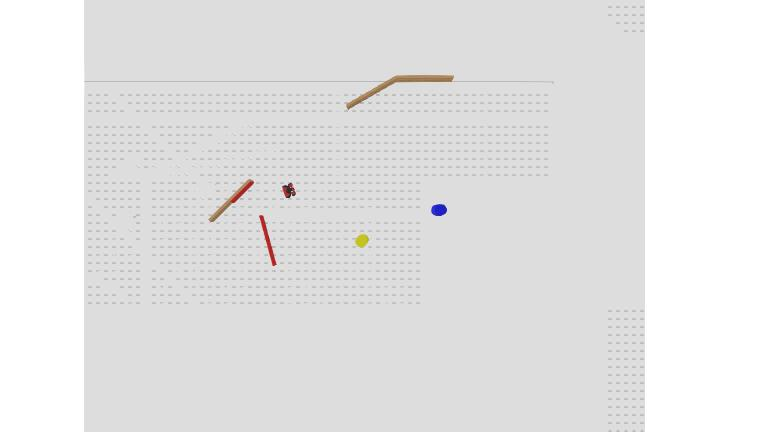
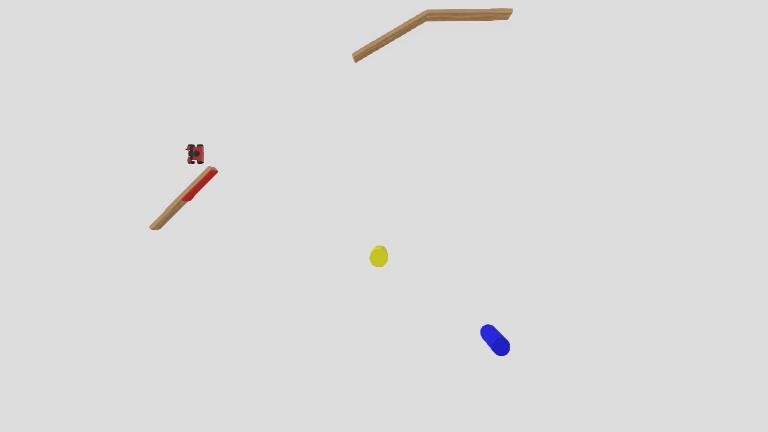
trying DWA

diff --git a/source/pplan/controllers/rosbot_python/rosbot_python.py b/source/pplan/controllers/rosbot_python/rosbot_python.py
@@ -152,9 +152,10 @@ def adapt_direction(distance_sensors_value):
             go_backward_milisecond(200)
         
         if last_turn == 0:
-            turn_left_milisecond(800)
+            rotate_in_place(120, 'left')
         else:
-            turn_right_milisecond(800)
+            rotate_in_place(120, 'right')
+
 
 def calculate_velocity(distance_sensors_value):
     coefficients = [[15.0, -9.0], [-15.0, 9.0]]
@@ -253,7 +254,7 @@ def simple_plan(map_target, tolerance=0.2):
 def get_local_target():
     current_pos = get_position()
     map_x, map_y = convert_to_map_coordinates(current_pos[0], current_pos[1])
-    r = 20
+    r = 10
 
     intersect_list = []
     for x_border in [-r, r]:
@@ -276,6 +277,95 @@ def get_local_target():
         print('--',intersect_list[np.argmin(dist)])
         return intersect_list[np.argmin(dist)]
     
+def dwa_planner(current_pos, current_heading_deg, map_target, distance_sensor_data, config):
+    max_v = config['max_v']
+    max_w = config['max_w']
+    v_samples = config['v_samples']
+    w_samples = config['w_samples']
+    predict_time = config['predict_time']
+    robot_radius = config['robot_radius']
+    dt = config['dt']
+
+    best_score = -float('inf')
+    best_v = 0.0
+    best_w = 0.0
+
+    for v in np.linspace(0, max_v, v_samples):
+        for w in np.linspace(-max_w, max_w, w_samples):
+            x, y = current_pos
+            #  theta = angle from robot to Norht (Oy)
+            theta = np.radians(current_heading_deg)
+
+            collision = False
+            for _ in np.arange(0, predict_time, dt):
+                x += v * np.cos(theta) * dt
+                y += v * np.sin(theta) * dt
+                theta += w * dt
+
+                if min(distance_sensor_data[0], distance_sensor_data[1]) < robot_radius:
+                    collision = True
+                    break
+
+            if collision:
+                continue
+
+            target_dx = map_target[0] - x
+            target_dy = map_target[1] - y
+            # heading_to_goal = angle from target to 
+            # heading_to_goal = np.arctan2(target_dy, target_dx) 
+            # heading_diff = abs(((heading_to_goal + np.pi - theta) % (2 * np.pi)) - np.pi)
+
+            heading_to_goal = (np.pi/2 - np.arctan2(target_dy, target_dx)) % (2*np.pi)
+            heading_diff = abs((heading_to_goal - theta))
+
+            score = -heading_diff + 0.5 * v
+
+            if score > best_score:
+                best_score = score
+                best_v = v
+                best_w = w
+
+    return best_v, best_w
+
+def velocity_to_wheel_speeds(v, w, wheel_base, wheel_radius):
+    v_left = v + (wheel_base / 2.0) * w
+    v_right = v - (wheel_base / 2.0) * w
+    left_speed = v_left / wheel_radius
+    right_speed = v_right / wheel_radius
+    return left_speed, right_speed
+
+def dwa_plan(map_target, tolerance=0.2):
+    current_pos = get_map_position()
+    distance = np.linalg.norm(map_target - current_pos)
+
+    if distance < tolerance:
+        print("[dwa_plan] Reached target!")
+        stop_motor()
+        return
+
+    heading = get_heading_deg()
+    sensor_data = get_distances()[:2]  # Use front-left and front-right sensors
+
+    config = {
+        'max_v': 0.3,
+        'max_w': 1.5,
+        'v_samples': 3,
+        'w_samples': 3,
+        'predict_time': 1.0,
+        'dt': 0.1,
+        'robot_radius': 0.3
+    }
+
+    v, w = dwa_planner(current_pos, heading, map_target, sensor_data, config)
+
+    left_speed, right_speed = velocity_to_wheel_speeds(v, w, AXLE_LENGTH, WHEEL_RADIUS)
+
+    front_left_motor.setVelocity(left_speed)
+    rear_left_motor.setVelocity(left_speed)
+    front_right_motor.setVelocity(right_speed)
+    rear_right_motor.setVelocity(right_speed)
+
+
 def main():
     try:
         pcount = 0  
@@ -301,9 +391,7 @@ def main():
             if cv2.waitKey(1) & 0xFF == ord('q'):
                     break
             
-            if pcount == 5:
-                simple_plan(target)
-                pcount = 0
+            dwa_plan(target)
 
             pcount += 1
             # time.sleep(0.5)

diff --git a/source/pplan/controllers/test/test.py b/source/pplan/controllers/test/test.py
@@ -1,0 +1,96 @@
+from controller import Robot, Keyboard, Supervisor
+import random
+import numpy as np
+import matplotlib.pyplot as plt
+from PIL import Image
+import time
+import cv2
+
+
+
+TIME_STEP = 32
+MAX_VELOCITY = 26
+WHEEL_RADIUS = 0.043  # meters
+AXLE_LENGTH = 0.18    # meters (distance between left and right wheels)
+
+# Initialize the robot
+robot = Supervisor()
+
+# Get motor devices
+front_left_motor = robot.getDevice("fl_wheel_joint")
+front_right_motor = robot.getDevice("fr_wheel_joint")
+rear_left_motor = robot.getDevice("rl_wheel_joint")
+rear_right_motor = robot.getDevice("rr_wheel_joint")
+front_left_motor.setPosition(float('inf'))
+front_right_motor.setPosition(float('inf'))
+rear_left_motor.setPosition(float('inf'))
+rear_right_motor.setPosition(float('inf'))
+front_left_motor.setVelocity(0.0)
+front_right_motor.setVelocity(0.0)
+rear_left_motor.setVelocity(0.0)
+rear_right_motor.setVelocity(0.0)
+
+# Get position sensors and enable them
+front_left_position_sensor = robot.getDevice("front left wheel motor sensor")
+front_right_position_sensor = robot.getDevice("front right wheel motor sensor")
+rear_left_position_sensor = robot.getDevice("rear left wheel motor sensor")
+rear_right_position_sensor = robot.getDevice("rear right wheel motor sensor")
+front_left_position_sensor.enable(TIME_STEP)
+front_right_position_sensor.enable(TIME_STEP)
+rear_left_position_sensor.enable(TIME_STEP)
+rear_right_position_sensor.enable(TIME_STEP)
+
+# Get RGB and depth cameras and enable them
+camera_rgb = robot.getDevice("camera rgb")
+camera_depth = robot.getDevice("camera depth")
+camera_rgb.enable(TIME_STEP)
+camera_depth.enable(TIME_STEP)
+
+# Get Lidar device and enable it
+lidar = robot.getDevice("laser")
+lidar.enable(TIME_STEP)
+lidar.enablePointCloud()
+
+# Get IMU devices and enable them
+accelerometer = robot.getDevice("imu accelerometer")
+gyro = robot.getDevice("imu gyro")
+compass = robot.getDevice("imu compass")
+accelerometer.enable(TIME_STEP)
+gyro.enable(TIME_STEP)
+compass.enable(TIME_STEP)
+
+# Get distance sensors and enable them
+distance_sensors = []
+distance_sensors.append(robot.getDevice("fl_range"))
+distance_sensors.append(robot.getDevice("rl_range"))
+distance_sensors.append(robot.getDevice("fr_range"))
+distance_sensors.append(robot.getDevice("rr_range"))
+for sensor in distance_sensors:
+    sensor.enable(TIME_STEP)
+
+MAP_SIZE = 1000 # 1000cm = 10m
+RESOLUTION = 0.01 # 1cm for 1 grid cell
+# grid_map = np.array([[0 for _ in range(MAP_SIZE)] for _ in range(MAP_SIZE)], dtype=np.uint8)
+grid_map = cv2.imread('../../textures/path_test_map.bmp', cv2.IMREAD_GRAYSCALE)
+visual_map = cv2.imread('../../textures/map1.png', cv2.IMREAD_COLOR)
+visual_map = cv2.cvtColor(visual_map, cv2.COLOR_BGR2RGB)
+
+try:
+    pcount = 0  
+    while robot.step(TIME_STEP) != -1 and pcount < 1:
+        compass_values = compass.getValues()
+        print('compass_values', compass_values)
+        rad = np.arctan2(compass_values[1], compass_values[0])  # y/x
+        print('rad', rad)
+        deg = np.degrees(rad)
+        print('deg', deg)
+        heading = (deg + 360) % 360
+        print('heading', heading)
+
+        pcount += 1
+
+
+except Exception as e:
+    print(f"An error occurred: {e}")
+    exit(0)
+    pass
